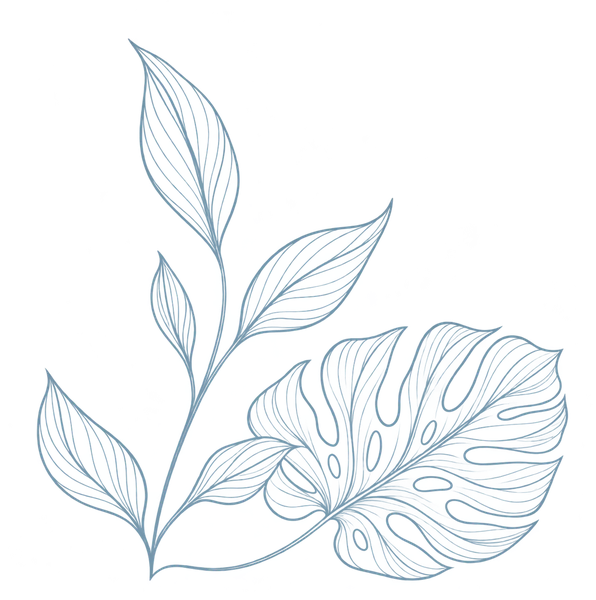
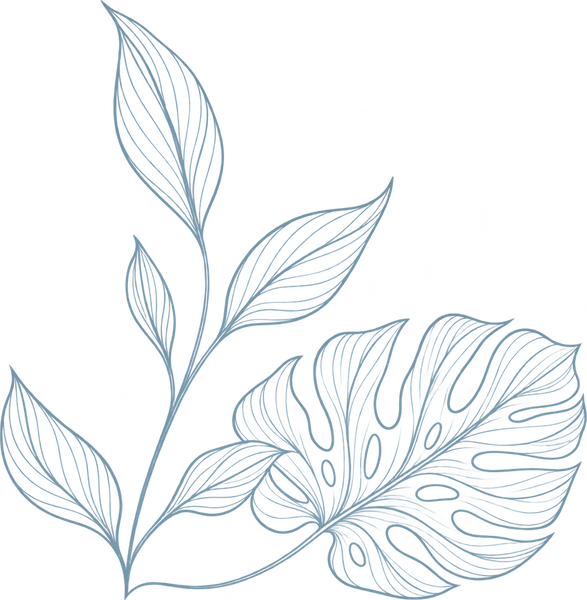
Corrige intercambio de imágenes: la punta de tallo ajustada era para "A tener en cuenta"
El commit anterior aplicó por error la hoja recién recortada (con la
punta del tallo al ras) en Dress Code, cuando esa imagen iba en la
sección "A tener en cuenta". Se restaura la hoja original de Dress
Code (que ya estaba bien) y se coloca la nueva donde correspondía.

Changed region(s): [[0.0, 0.0, 1.0, 1.0]]

diff --git a/public/wedding-invitation_1.html b/public/wedding-invitation_1.html
@@ -621,8 +621,8 @@
     pointer-events: none;
     z-index: 0;
   }
-  .dresscode-leaf-bl { bottom: 0; left: 0; }
-  .dresscode-leaf-tr { top: 0; right: 0; }
+  .dresscode-leaf-bl { bottom: -8px; left: -8px; }
+  .dresscode-leaf-tr { top: -8px; right: -8px; }
 
   /* Layout dos columnas */
   .dresscode-container {
@@ -786,7 +786,7 @@
     pointer-events: none;
     z-index: 0;
   }
-  .no-kids-leaf-bl { bottom: 0; left: -20px; }
+  .no-kids-leaf-bl { bottom: 0; left: 0; }
   .no-kids-leaf-br { bottom: 0; right: -20px; }
 
   .no-kids-text {
@@ -892,7 +892,7 @@
       width: 130px;
       opacity: 0.4;
     }
-    .no-kids-leaf-bl { left: -14px; }
+    .no-kids-leaf-bl { left: 0; }
     .no-kids-leaf-br { right: -14px; }
     .no-kids-plant-divider {
       width: 110px;
